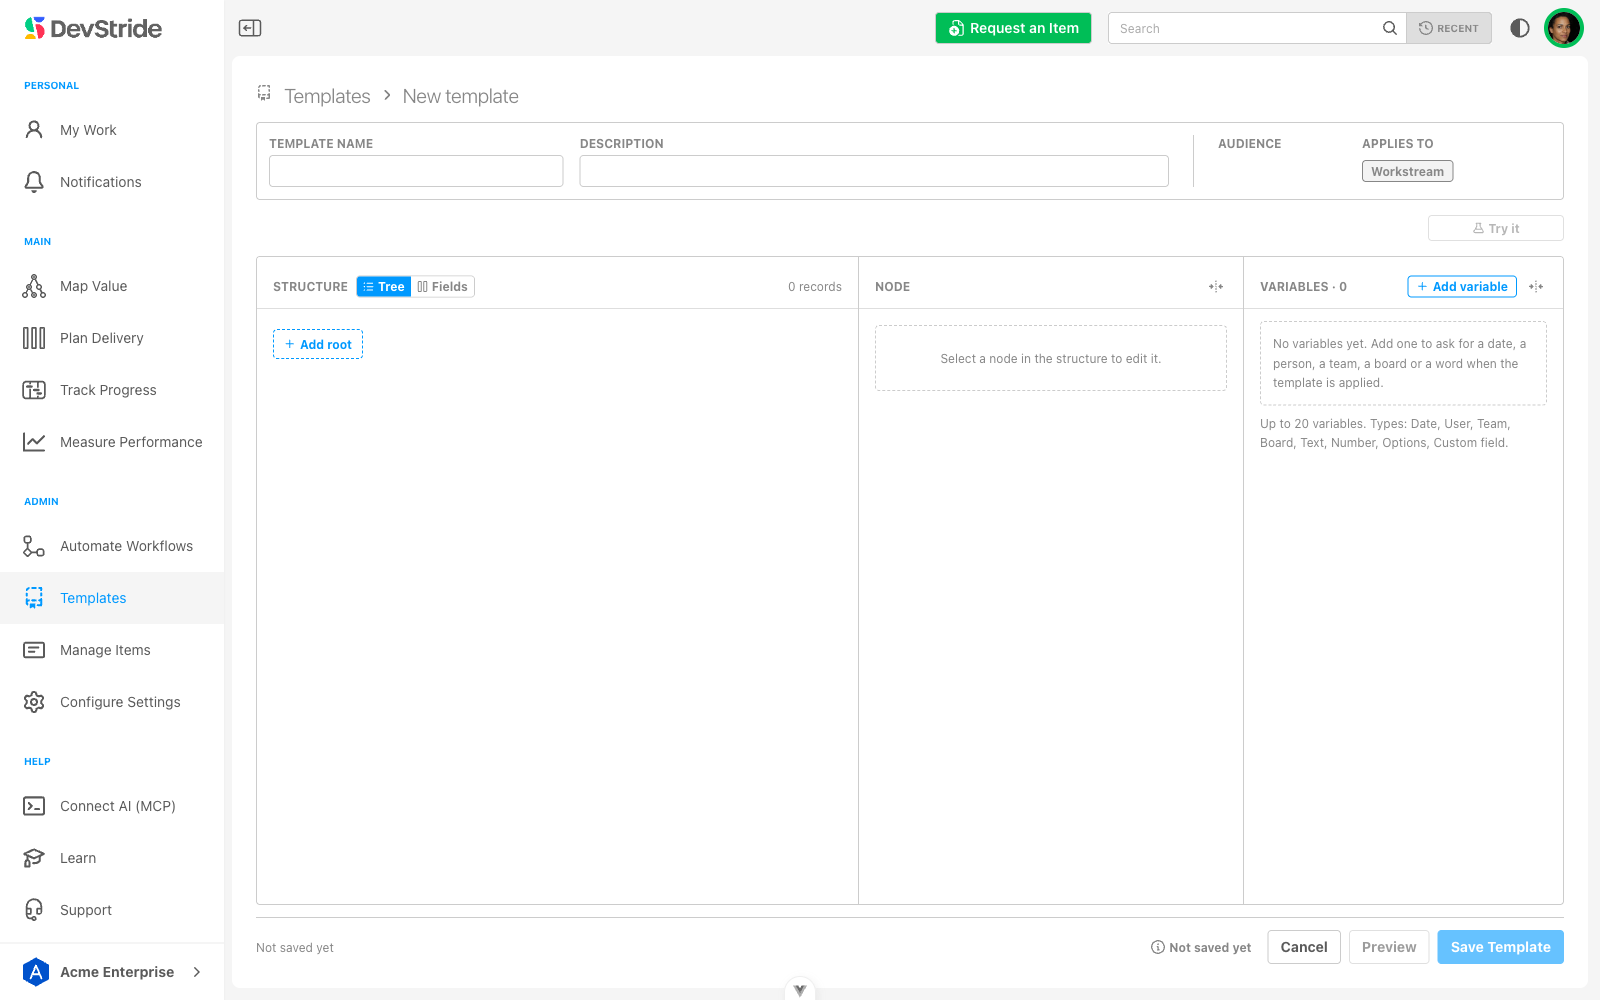
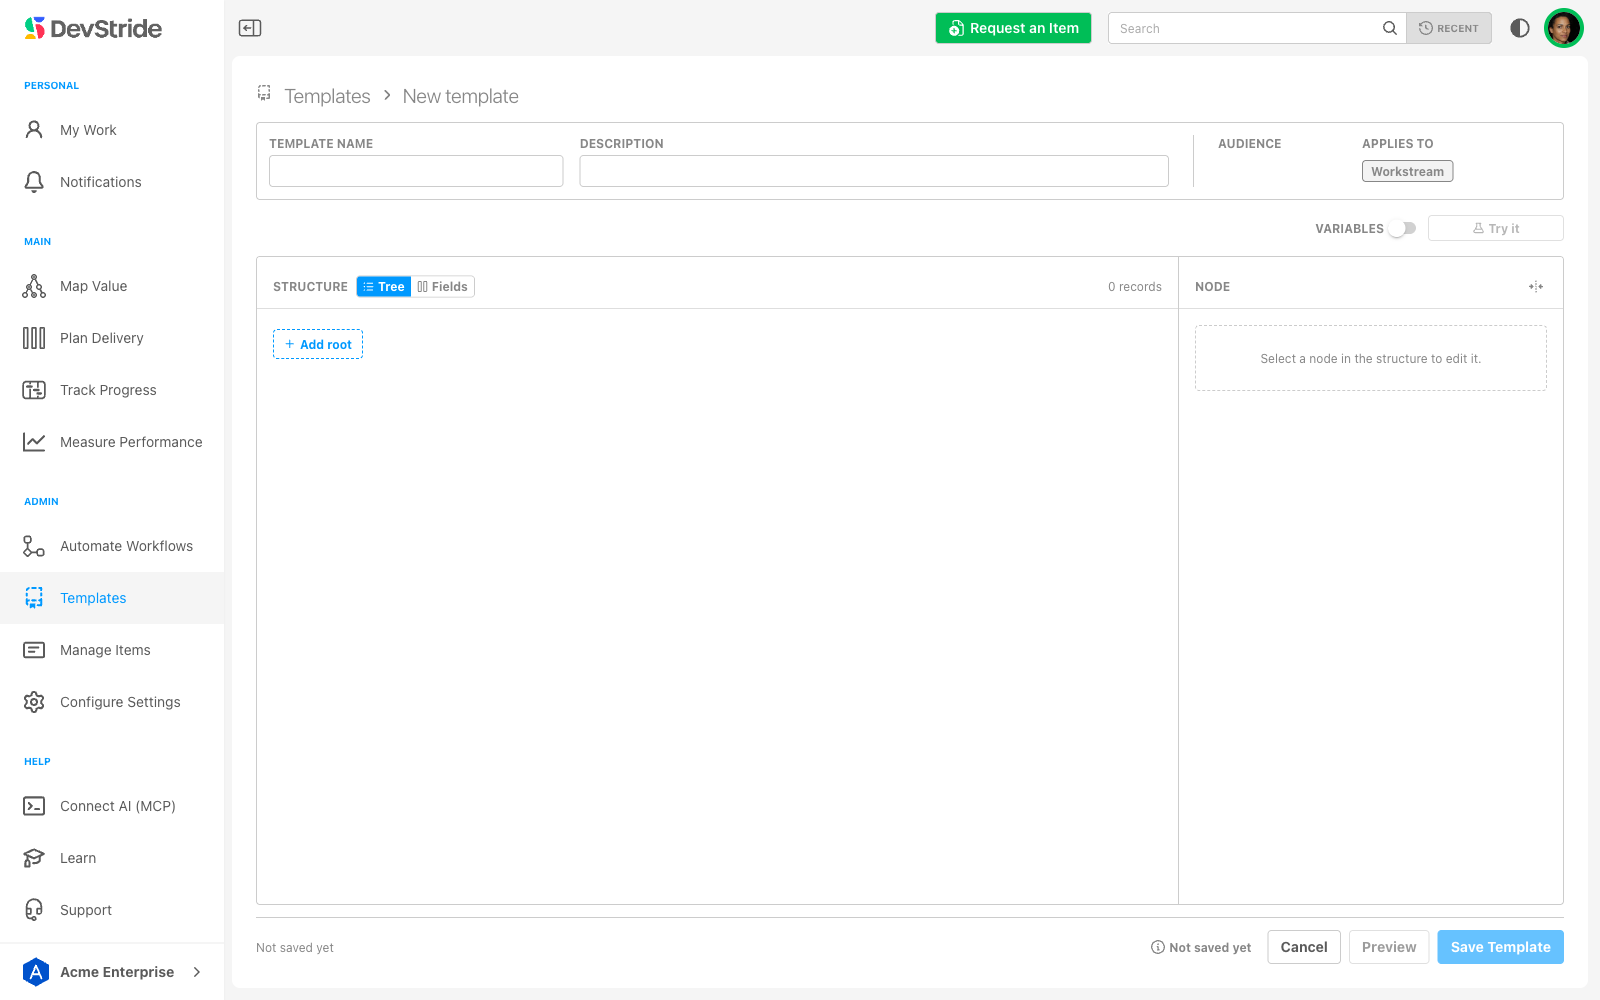
docs(templates): screenshot simple mode, and quote the real prompt
Adds three captures from the running builder at the doc set's 1600x1000:
simple mode itself, the "Turn variables off?" prompt, and the state
straight after a removal — which is the clearest illustration of the
title wreckage the warning describes, since it shows "Kickoff workshop
with" left behind verbatim.

Replaces builder-new-empty.png: a new template now opens in simple mode,
so the old capture showed a variables pane that is no longer there and
contradicted its own caption.

Also corrects the prompt's wording. The previous text invented a
three-clause example; the real dialog omits the cleared-fields clause
when a template has none, so the quote is now taken from the screenshot
and the surrounding sentence says the counts vary.

diff --git a/content/02.major-modules/06.item-templates/03.variables.md b/content/02.major-modules/06.item-templates/03.variables.md
@@ -137,9 +137,13 @@ The person applying never sees tokens, node keys or types — just the questions
 
 If a template turned out not to need its variables — or you inherited one that's more complicated than the job deserves — the **Variables** switch in the builder takes them out.
 
-Switching it off on a template that already uses variables is **an edit, not a view change**, so it asks first and tells you exactly what it's about to remove:
+Switching it off on a template that already uses variables is **an edit, not a view change**, so it asks first and counts exactly what it's about to remove:
 
-> **2** variables are removed. **5** fields that ask for one are cleared. **4** titles or descriptions lose their tokens.
+![The Turn variables off? dialog, counting the variables and the tokenised titles it is about to remove.](/images/item-templates/builder-remove-variables-confirm.png)
+
+> *1 variable is removed. 2 titles or descriptions lose their tokens. Fixed values you have already set are kept. Nothing is saved until you press Save Template.*
+
+The counts are of that template, so the sentence changes each time — a template with fields wired to variables also reports how many of those will be cleared.
 
 Confirming does three things:
 
@@ -149,8 +153,10 @@ Confirming does three things:
 
 Everything you set as a **fixed** value survives untouched — titles, dates, teams, priorities, tags, fixed custom-field values.
 
+![The same template after the removal: two panes, no toggles, and titles left reading "onboarding" and "Kickoff workshop with".](/images/item-templates/builder-variables-removed.png)
+
 ::alert{type="warning" title="Rewrite the titles a token came out of"}
-Removing a token leaves grammatical wreckage behind: `Kickoff workshop with {{Client}}` becomes `Kickoff workshop with`. That is deliberate — leaving the braces in place would create an item genuinely called "Kickoff workshop with {{Client}}" — but it does mean you should read back over the affected titles afterwards and write them properly.
+Removing a token leaves grammatical wreckage behind, exactly as above: `{{Client}} onboarding` becomes `onboarding`, and `Kickoff workshop with {{Client}}` becomes `Kickoff workshop with`. That is deliberate — leaving the braces in place would create an item genuinely called "Kickoff workshop with {{Client}}" — but it does mean you should read back over the affected titles afterwards and write them properly before saving.
 ::
 
 Nothing is written until you press **Save Template**, so **Cancel** still walks away from the whole thing. Once saved, though, the removal isn't undoable — if the template is one other people rely on, [duplicate it](/major-modules/item-templates/overview#where-templates-live) and simplify the copy.

diff --git a/content/02.major-modules/06.item-templates/02.building-a-template.md b/content/02.major-modules/06.item-templates/02.building-a-template.md
@@ -29,6 +29,8 @@ Not every template needs to ask anything. A standing checklist — the same five
 
 The **Variables** switch, in the bar above the panes next to **Try it**, turns that machinery off.
 
+![The builder in simple mode: two panes, no variables roster, and a node inspector with no Fixed/Variable toggles.](/images/item-templates/builder-simple-mode.png)
+
 With it **off**, the builder is two panes instead of three:
 
 - the **Variables** pane is gone
